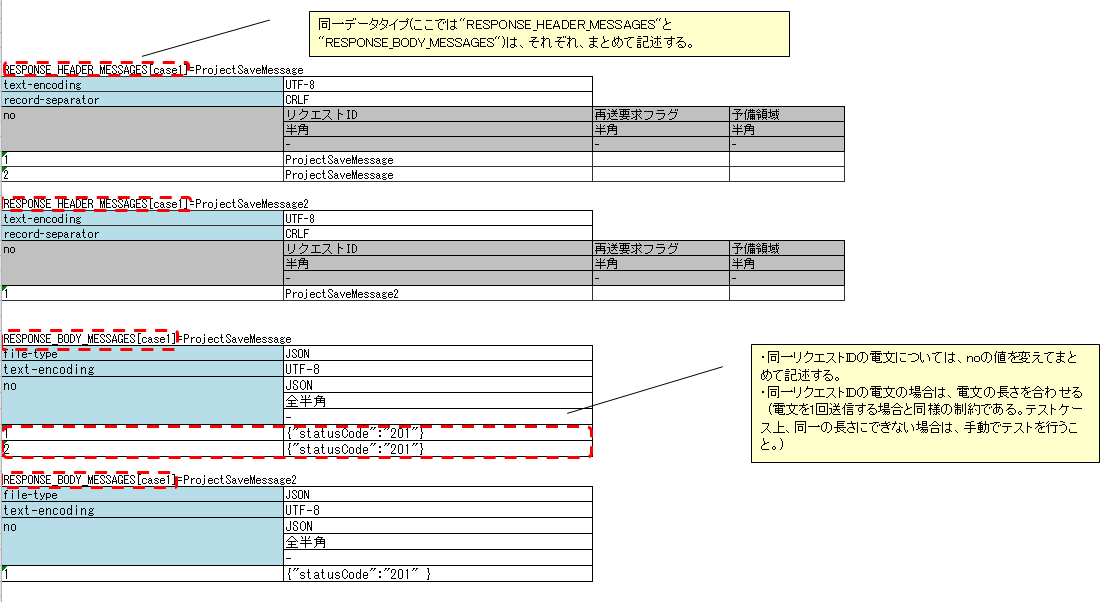
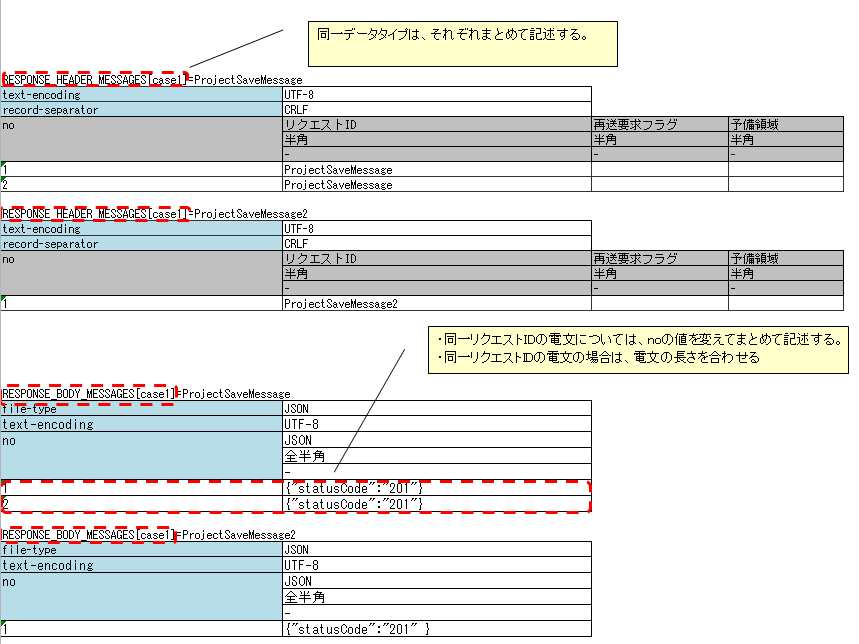
画像と文中の説明の位置を近づけた。また、モックアップについての説明への参照を張った。

diff --git a/development_tools/testing_framework/guide/development_guide/05_UnitTestGuide/02_RequestUnitTest/http_send_sync.rst b/development_tools/testing_framework/guide/development_guide/05_UnitTestGuide/02_RequestUnitTest/http_send_sync.rst
@@ -20,11 +20,27 @@
 電文を1回送信する場合の要求電文の期待値および、返却する応答電文（レスポンスメッセージ）の例
 ~~~~~~~~~~~~~~~~~~~~~~~~~~~~~~~~~~~~~~~~~~~~~~~~~~~~~~~~~~~~~~~~~~~~~~~~~~~~~~~~~~~~~~~~~~~
 
-以下に、電文を1回送信する場合の要求電文および、返却する応答電文の記述例を示す。
+以下に、電文を1回送信する場合の返却する応答電文の記述例を示す。
 
 
-.. image:: ./_image/http_send_sync.png
+.. image:: ./_image/http_send_sync_response.png
     :scale: 80
+
+
+.. tip::
+ RESPONSE_BODY_MESSAGES(及び後の例で使用するEXPECTED_REQUEST_BODY_MESSAGES)は、複数フィールドに分割して記述することが可能である。
+
+ 文字列が長く、1セルに全部記述すると可読性が落ちる場合に分割して記述する。
+
+ 分割する際、「フィールド名」は任意の文字列を指定する。上記の例では ``XML1`` 、 ``XML2`` 、 ``XML3`` としている。
+
+
+以下に、電文を1回送信する場合の要求電文の期待値の記述例を示す。
+
+
+.. image:: ./_image/http_send_sync_expected.png
+    :scale: 80
+
 
 
 .. tip::
@@ -36,12 +52,19 @@
 電文を2回以上送信する場合の要求電文の期待値および、返却する応答電文（レスポンスメッセージ）の例
 ~~~~~~~~~~~~~~~~~~~~~~~~~~~~~~~~~~~~~~~~~~~~~~~~~~~~~~~~~~~~~~~~~~~~~~~~~~~~~~~~~~~~~~~~~~~~~~~
 
-以下に複数回メッセージ送信を行う際の、返却する応答電文の記述例を示す。
+複数回電文送信を行う場合のテストは、テスティングフレームワークの以下の仕様に注意をして記述すること。
+
+* 同一データタイプ(以下の例では ``RESPONSE_HEADER_MESSAGES`` と ``RESPONSE_BODY_MESSAGES`` )は、それぞれ、まとめて記述する。詳細は、 \ :ref:`tips_groupId`\ 及び、 \ :ref:`auto-test-framework_multi-datatype`\ を参照。
+* 同一リクエストIDの電文については、noの値を変えてまとめて記述する。
+* 同一リクエストIDの電文の場合は、電文の長さを合わせる(電文を1回送信する場合と同様の制約である。テストケース上、同一の長さにできない場合は、手動でテストを行うこと)
+
+以下に複数回電文送信を行う際の、返却する応答電文の記述例を示す。
+
 
 .. image:: ./_image/http_send_sync_ok_pattern_response.png
     :scale: 80
 
-以下に複数回メッセージ送信を行う際の、要求電文の期待値の記述例を示す。
+以下に複数回電文送信を行う際の、要求電文の期待値の記述例を示す。
 
 
 .. image:: ./_image/http_send_sync_ok_pattern_expected.png
@@ -49,18 +72,16 @@
 
 
 .. tip::
- 同一データタイプを複数回記述する場合の注意点の詳細は、 \ :ref:`tips_groupId`\ 及び、 \ :ref:`auto-test-framework_multi-datatype`\ を参照。
+ 送信対象のリクエストIDが複数存在する場合、送信順のテストは不可能である。上記の例の場合、 ``ProjectSaveMessage`` より先に、 ``ProjectSaveMessage2`` が送信された場合であってもテストは成功となる。
 
 
-.. tip::
- 異なるリクエストIDのメッセージを送信する際、送信順のテストは不可能である。上記の例の場合、 ``ProjectSaveMessage`` より先に、 ``ProjectSaveMessage2`` が送信された場合であってもテストは成功となる。
+モックアップを使用するための記述
+~~~~~~~~~~~~~~~~~~~~~~~~~~~~~~~~
+
+testShotsに ``expectedMessageByClient`` および ``responseMessageByClient`` にグループIDを設定する。モックアップ自体については、\ :ref:`dealUnitTest_send_sync`\ を参照。
 
 
-モックアップの使用
-~~~~~~~~~~~~~~~~~~
-
-モックアップを使用する場合、testShotsに"expectedMessageByClient"および"responseMessageByClient"にグループIDを設定する。
-グループIDの関連については\ :ref:`message_sendSyncMessage_test`\ における"expectedMessage"および"responseMessage"の場合と同様であるため割愛する。
+グループIDの関連については\ :ref:`message_sendSyncMessage_test`\ における ``expectedMessage`` および ``responseMessage`` の場合と同様であるため割愛する。
 
 .. image:: ./_image/http_send_sync_shot.png
     :scale: 80

diff --git a/development_tools/testing_framework/guide/development_guide/05_UnitTestGuide/02_RequestUnitTest/send_sync.rst b/development_tools/testing_framework/guide/development_guide/05_UnitTestGuide/02_RequestUnitTest/send_sync.rst
@@ -238,6 +238,12 @@ no                         ディレクティブ行の下の行には必ず「no
     * ヘッダ
     * 業務データ(3レコード目)
 
+----
+
+複数回電文送信を行う場合のテストは、テスティングフレームワークの以下の仕様に注意をして記述すること。
+
+* 同一データタイプ(以下の例では ``RESPONSE_HEADER_MESSAGES`` と ``RESPONSE_BODY_MESSAGES`` )は、それぞれ、まとめて記述する。詳細は、 \ :ref:`tips_groupId`\ 及び、 \ :ref:`auto-test-framework_multi-datatype`\ を参照。
+* 同一リクエストIDの電文については、noの値を変えてまとめて記述する。
 
 以下に、複数回メッセージを送信する場合の要求電文の本文の期待値の記載例を示す。
 
@@ -246,11 +252,7 @@ no                         ディレクティブ行の下の行には必ず「no
 
 
 .. tip::
- 同一データタイプを複数回記述する場合の注意点の詳細は、 \ :ref:`tips_groupId`\ 及び、 \ :ref:`auto-test-framework_multi-datatype`\ を参照。
-
-
-.. tip::
- 異なるリクエストIDのメッセージを送信する際、送信順のテストは不可能である。上記の例の場合、 ``ProjectInsertMessage`` より先に、 ``ProjectInsert2Messag`` が送信された場合であってもテストは成功となる。
+ 送信対象のリクエストIDが複数存在する場合、送信順のテストは不可能である。上記の例の場合、 ``ProjectInsertMessage`` より先に、 ``ProjectInsert2Messag`` が送信された場合であってもテストは成功となる。
 
 
 .. _`send_sync_failure_test`:
